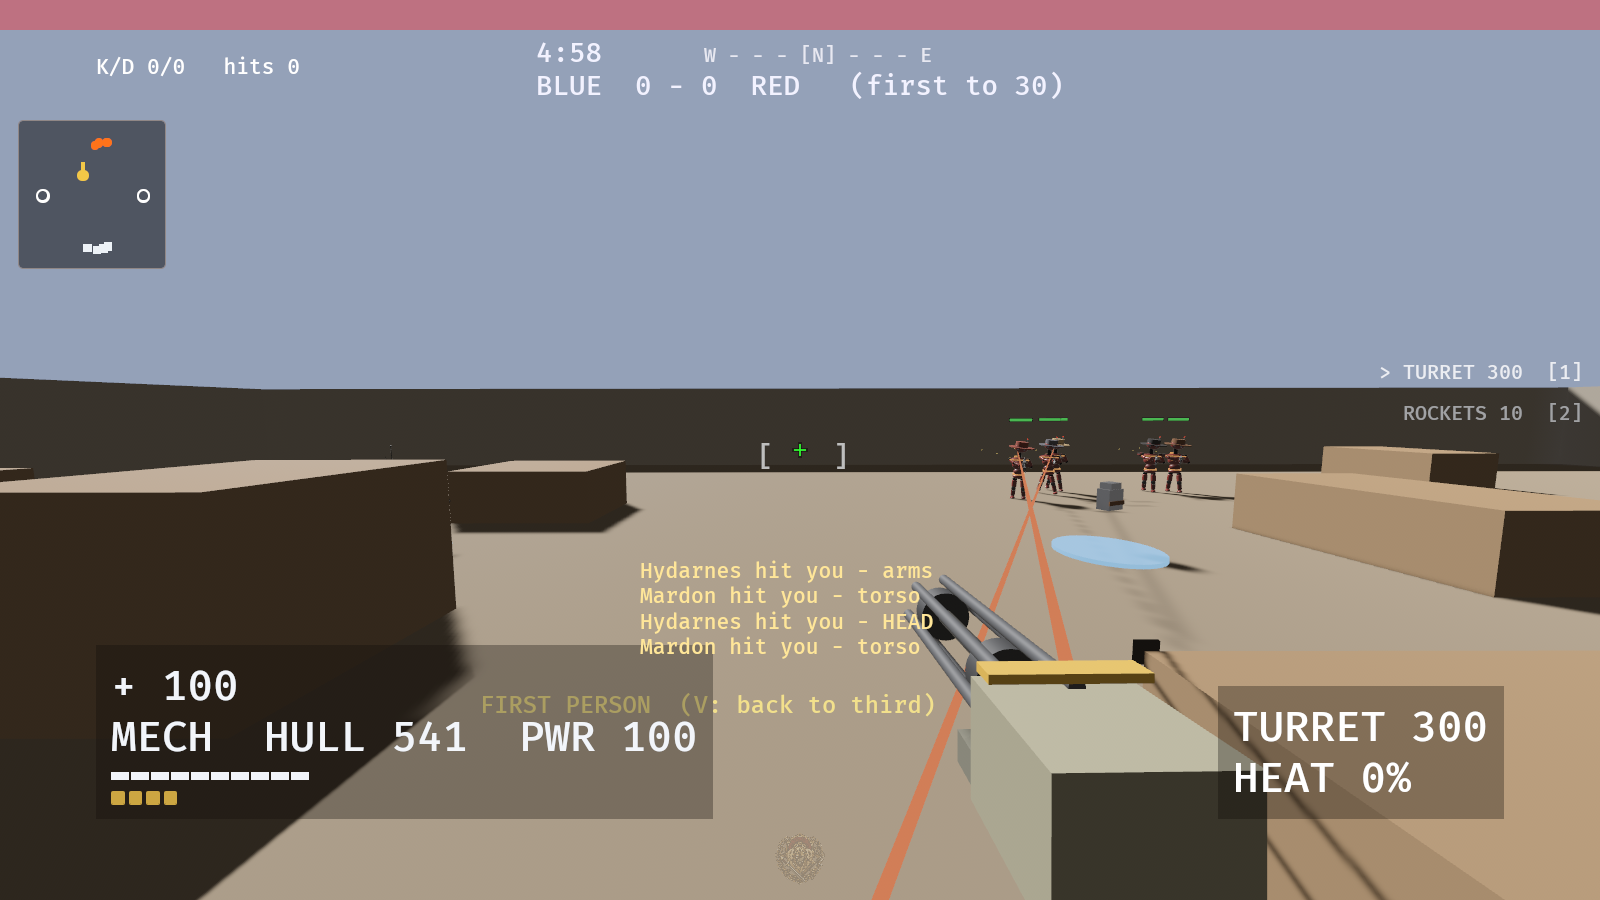
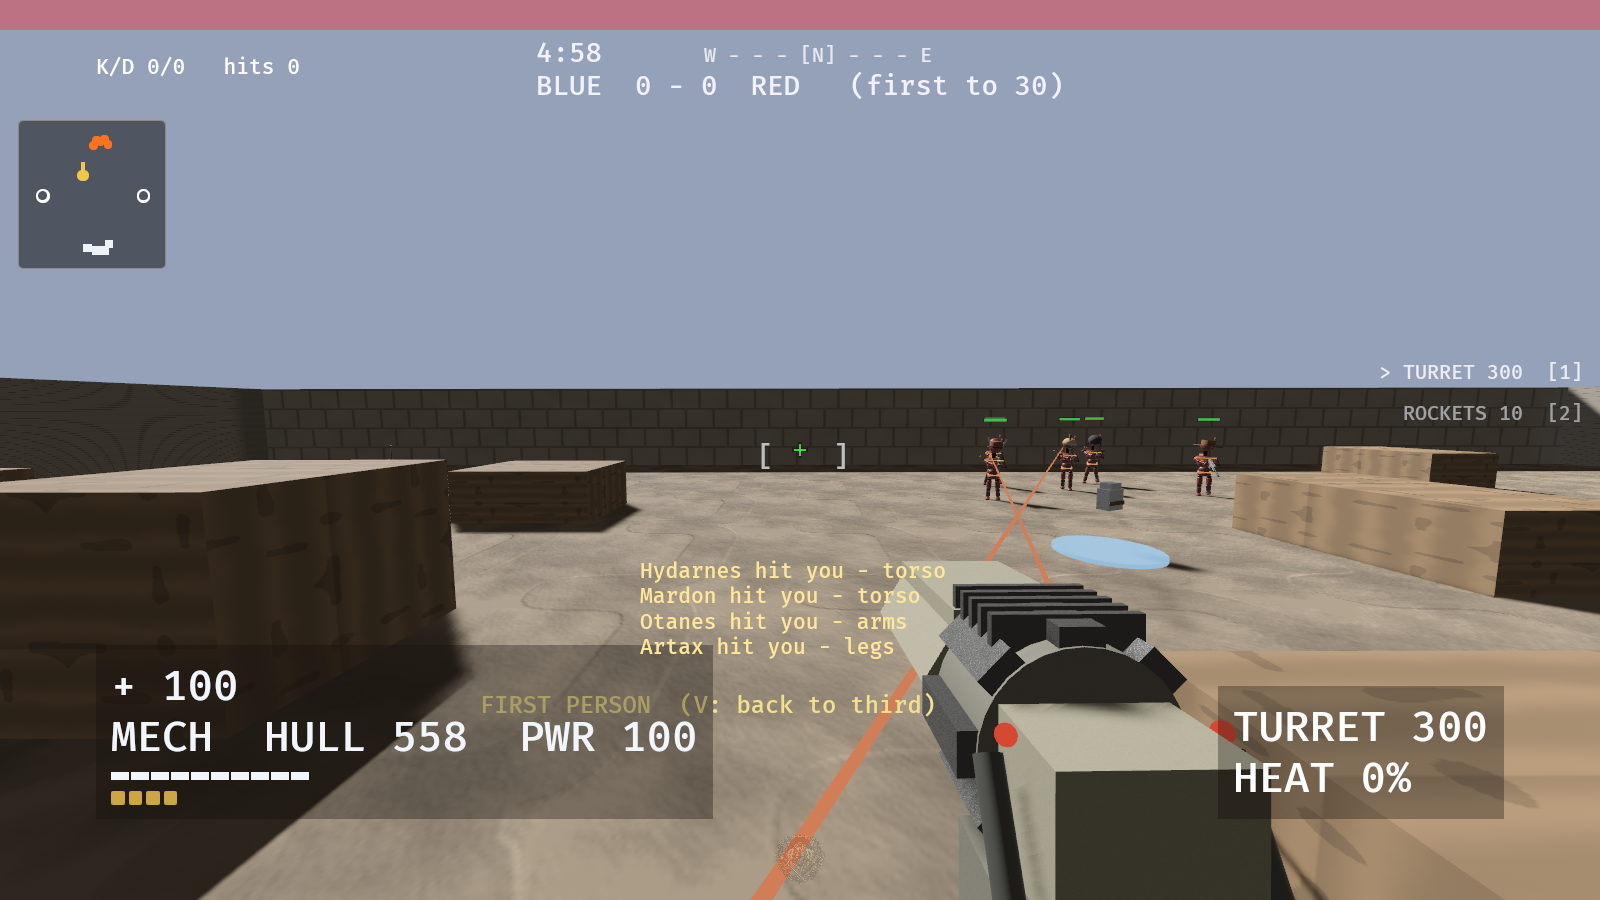
Make the mounts look like weapons a flagship would carry
Both hull mounts got the same argument the hull did: a weapon is not a
shape, it is a SYSTEM, and every part of it should be there because
another part needs it.

THE TURRET was a spine, two discs and six tubes - and the player looks
at it for the entire time they are in a chassis. A rotary cannon is
barrels, the clamps that hold them true, the drive that turns them, the
belt that feeds them, and the heat all of that makes.

Barrel clamps and muzzle collars ride the SPINNER, so they turn with
what they are clamping - six thickened mouths catching the light as the
cluster comes round. The drive housing is STATIC, with a ring of cooling
ribs and a lit power feed, and that difference is most of what makes a
gatling read correctly: the drive does not spin, the thing it drives
does. Above it a heat-sink stack with a glowing seam, which is where the
mount's existing heat number now lives on the gun itself. Below it a
belt box and gold feed links, matching the ammo-pickup vocabulary so a
player reads "rounds" without being told. Then cabling back into the
hull, two status lamps, and a partial cowl - open below, so the barrels
stay the thing you read.

THE LAUNCHER was a tube. A launcher is a tube plus everything that makes
firing one survivable: the casing that contains a misfire, the lock that
holds the round until told otherwise, the vent that puts the backblast
somewhere that is not the pilot, and the sensor that decided to fire.
[…]

diff --git a/engine/crates/jk_tdm/src/main.rs b/engine/crates/jk_tdm/src/main.rs
@@ -7171,6 +7171,169 @@ fn spawn_mech_turret_vm(commands: &mut Commands, kit: &ModelKit) -> Entity {
             ))
             .set_parent(root);
     }
+    // ---- §owner FLAGSHIP PASS: the turret ------------------------------
+    //
+    // This is the weapon the player looks at for the whole time they are
+    // in a chassis, and it was a spine, two discs and six tubes. A
+    // rotary cannon is a SYSTEM: barrels, the clamps that hold them true,
+    // the drive that turns them, the belt that feeds them, and the heat
+    // it all makes. Each of those is a group below, and each of them is
+    // the reason the next one exists.
+    {
+        // BARREL CLAMPS - two rings around the cluster, and the reason
+        // the barrels look like an assembly instead of six loose rods.
+        // On the SPINNER, so they turn with what they are clamping.
+        for (rz, r) in [(0.16_f32, 0.095_f32), (0.50, 0.088)] {
+            commands
+                .spawn((
+                    Mesh3d(kit.cyl.clone()),
+                    MeshMaterial3d(kit.mech_khaki_dk.clone()),
+                    Transform {
+                        translation: Vec3::new(0.0, 0.0, rz),
+                        rotation: Quat::from_rotation_x(FRAC_PI_2),
+                        scale: Vec3::new(r * 2.0, 0.045, r * 2.0),
+                    },
+                ))
+                .set_parent(spinner);
+        }
+        // muzzle collars, one per barrel - a bored gun has a THICKER
+        // mouth, and six of them catch the light as the cluster turns
+        for i in 0..6 {
+            let a = i as f32 * std::f32::consts::TAU / 6.0;
+            commands
+                .spawn((
+                    Mesh3d(kit.cyl.clone()),
+                    MeshMaterial3d(kit.mech_metal.clone()),
+                    Transform {
+                        translation: Vec3::new(a.cos() * 0.064, a.sin() * 0.064, 0.645),
+                        rotation: Quat::from_rotation_x(FRAC_PI_2),
+                        scale: Vec3::new(0.034, 0.035, 0.034),
+                    },
+                ))
+                .set_parent(spinner);
+        }
+        // DRIVE HOUSING - the motor that turns the cluster, static, with
+        // a cooling jacket and a lit power feed. Static on purpose: the
+        // drive does not spin, the thing it drives does, and that
+        // difference is most of what makes a gatling read correctly.
+        commands
+            .spawn((
+                Mesh3d(kit.cyl.clone()),
+                MeshMaterial3d(kit.mech_khaki_dk.clone()),
+                Transform {
+                    translation: Vec3::new(0.0, 0.0, 0.03),
+                    rotation: Quat::from_rotation_x(FRAC_PI_2),
+                    scale: Vec3::new(0.25, 0.20, 0.25),
+                },
+            ))
+            .set_parent(root);
+        for k in 0..8 {
+            let a = k as f32 * std::f32::consts::TAU / 8.0;
+            commands
+                .spawn((
+                    Mesh3d(kit.cube.clone()),
+                    MeshMaterial3d(kit.mech_metal.clone()),
+                    Transform {
+                        translation: Vec3::new(a.cos() * 0.132, a.sin() * 0.132, 0.03),
+                        rotation: Quat::from_rotation_z(a),
+                        scale: Vec3::new(0.030, 0.055, 0.19),
+                    },
+                ))
+                .set_parent(root);
+        }
+        // HEAT SINK stack over the drive - fins, and a glowing seam
+        // between them. The mount already HAS a heat model the HUD
+        // shows; this is where that number lives on the gun.
+        for k in 0..5 {
+            commands
+                .spawn((
+                    Mesh3d(kit.cube.clone()),
+                    MeshMaterial3d(kit.mech_metal.clone()),
+                    Transform::from_xyz(0.0, 0.115, -0.02 + k as f32 * 0.042)
+                        .with_scale(Vec3::new(0.19, 0.075, 0.016)),
+                ))
+                .set_parent(root);
+        }
+        commands
+            .spawn((
+                Mesh3d(kit.cube.clone()),
+                MeshMaterial3d(kit.med_glow.clone()),
+                Transform::from_xyz(0.0, 0.075, 0.065)
+                    .with_scale(Vec3::new(0.17, 0.012, 0.20)),
+            ))
+            .set_parent(root);
+        // AMMUNITION - a belt box under the breech and the links running
+        // up into it. Gold, matching the ammo-pickup vocabulary, so a
+        // player reads "rounds" without being told.
+        commands
+            .spawn((
+                Mesh3d(kit.cube.clone()),
+                MeshMaterial3d(kit.mech_khaki_dk.clone()),
+                Transform::from_xyz(0.0, -0.20, -0.16)
+                    .with_scale(Vec3::new(0.26, 0.20, 0.30)),
+            ))
+            .set_parent(root);
+        for (lx, ly, lz) in [
+            (0.0_f32, -0.115_f32, -0.11_f32),
+            (0.0, -0.075, -0.055),
+            (0.0, -0.055, 0.00),
+        ] {
+            commands
+                .spawn((
+                    Mesh3d(kit.cube.clone()),
+                    MeshMaterial3d(kit.gold.clone()),
+                    Transform::from_xyz(lx, ly, lz)
+                        .with_scale(Vec3::new(0.10, 0.045, 0.075)),
+                ))
+                .set_parent(root);
+        }
+        // CABLING from the drive back into the hull, and the two small
+        // status lamps a crewed weapon always has
+        for sd in [-1.0_f32, 1.0] {
+            commands
+                .spawn((
+                    Mesh3d(kit.cyl.clone()),
+                    MeshMaterial3d(kit.mech_shadow.clone()),
+                    Transform {
+                        translation: Vec3::new(sd * 0.13, -0.09, -0.20),
+                        rotation: Quat::from_rotation_x(0.55),
+                        scale: Vec3::new(0.032, 0.28, 0.032),
+                    },
+                ))
+                .set_parent(root);
+            commands
+                .spawn((
+                    Mesh3d(kit.ball.clone()),
+                    MeshMaterial3d(kit.core_glow.clone()),
+                    Transform::from_xyz(sd * 0.115, 0.055, -0.14)
+                        .with_scale(Vec3::splat(0.024)),
+                ))
+                .set_parent(root);
+        }
+        // reinforced barrel shroud - a partial cowl over the top of the
+        // cluster, open below so the barrels stay readable
+        commands
+            .spawn((
+                Mesh3d(kit.cube.clone()),
+                MeshMaterial3d(kit.mech_khaki.clone()),
+                Transform::from_xyz(0.0, 0.105, 0.34)
+                    .with_scale(Vec3::new(0.20, 0.030, 0.42)),
+            ))
+            .set_parent(root);
+        for sd in [-1.0_f32, 1.0] {
+            commands
+                .spawn((
+                    Mesh3d(kit.cube.clone()),
+                    MeshMaterial3d(kit.mech_khaki.clone()),
+                    Transform {
+                        translation: Vec3::new(sd * 0.105, 0.055, 0.34),
+                        rotation: Quat::from_rotation_z(sd * 0.55),
+                        scale: Vec3::new(0.028, 0.11, 0.42),
+                    },
+                ))
+                .set_parent(root);
+        }
+    }
     root
 }
 
@@ -7237,6 +7400,159 @@ fn spawn_mech_pod_vm(commands: &mut Commands, kit: &ModelKit) -> Entity {
                     translation: Vec3::new(x, -0.13, 0.30),
                     rotation: Quat::from_rotation_x(FRAC_PI_2),
                     scale: Vec3::new(0.05, 0.10, 0.05),
+                },
+            ))
+            .set_parent(root);
+    }
+    // ---- §owner FLAGSHIP PASS: the launcher -----------------------------
+    //
+    // A launcher is a tube plus everything that makes firing one safe:
+    // the casing that contains a misfire, the lock that holds the round
+    // until it is told not to, the vent that puts the backblast
+    // somewhere, and the sensor that decided to fire in the first place.
+    // The tube had none of them.
+    {
+        // ARMOUR CASING - a half-shell over the tube, ribbed, open below
+        // so the tube stays the thing you read
+        commands
+            .spawn((
+                Mesh3d(kit.cube.clone()),
+                MeshMaterial3d(kit.mech_khaki.clone()),
+                Transform::from_xyz(0.0, 0.115, 0.42)
+                    .with_scale(Vec3::new(0.20, 0.045, 0.78)),
+            ))
+            .set_parent(root);
+        for k in 0..5 {
+            commands
+                .spawn((
+                    Mesh3d(kit.cube.clone()),
+                    MeshMaterial3d(kit.mech_khaki_dk.clone()),
+                    Transform::from_xyz(0.0, 0.115, 0.13 + k as f32 * 0.145)
+                        .with_scale(Vec3::new(0.215, 0.055, 0.030)),
+                ))
+                .set_parent(root);
+        }
+        for sd in [-1.0_f32, 1.0] {
+            commands
+                .spawn((
+                    Mesh3d(kit.cube.clone()),
+                    MeshMaterial3d(kit.mech_khaki.clone()),
+                    Transform {
+                        translation: Vec3::new(sd * 0.115, 0.055, 0.42),
+                        rotation: Quat::from_rotation_z(sd * 0.60),
+                        scale: Vec3::new(0.030, 0.10, 0.78),
+                    },
+                ))
+                .set_parent(root);
+        }
+        // LOCKING MECHANISM at the mouth - two jaws and their actuator.
+        // This is the part that says the round is HELD rather than
+        // resting in a pipe.
+        for sd in [-1.0_f32, 1.0] {
+            commands
+                .spawn((
+                    Mesh3d(kit.cube.clone()),
+                    MeshMaterial3d(kit.mech_metal.clone()),
+                    Transform {
+                        translation: Vec3::new(sd * 0.155, 0.0, 0.815),
+                        rotation: Quat::from_rotation_z(sd * -0.25),
+                        scale: Vec3::new(0.045, 0.13, 0.075),
+                    },
+                ))
+                .set_parent(root);
+            commands
+                .spawn((
+                    Mesh3d(kit.cyl.clone()),
+                    MeshMaterial3d(kit.mech_shadow.clone()),
+                    Transform {
+                        translation: Vec3::new(sd * 0.145, 0.0, 0.735),
+                        rotation: Quat::from_rotation_z(FRAC_PI_2),
+                        scale: Vec3::new(0.040, 0.055, 0.040),
+                    },
+                ))
+                .set_parent(root);
+        }
+        // EXHAUST / BACKBLAST vents at the rear, angled out and down so
+        // the blast is visibly going somewhere that is not the pilot
+        for sd in [-1.0_f32, 1.0] {
+            commands
+                .spawn((
+                    Mesh3d(kit.cyl.clone()),
+                    MeshMaterial3d(kit.mech_khaki_dk.clone()),
+                    Transform {
+                        translation: Vec3::new(sd * 0.115, -0.035, -0.06),
+                        rotation: Quat::from_rotation_z(sd * -0.55),
+                        scale: Vec3::new(0.085, 0.16, 0.085),
+                    },
+                ))
+                .set_parent(root);
+            commands
+                .spawn((
+                    Mesh3d(kit.cyl.clone()),
+                    MeshMaterial3d(kit.grey_black.clone()),
+                    Transform {
+                        translation: Vec3::new(sd * 0.155, -0.105, -0.06),
+                        rotation: Quat::from_rotation_z(sd * -0.55),
+                        scale: Vec3::new(0.065, 0.03, 0.065),
+                    },
+                ))
+                .set_parent(root);
+        }
+        // RELOAD components - the feed arm that lifts a round from the
+        // magazine into the breech, caught mid-travel
+        commands
+            .spawn((
+                Mesh3d(kit.cube.clone()),
+                MeshMaterial3d(kit.mech_metal.clone()),
+                Transform {
+                    translation: Vec3::new(0.0, -0.075, 0.22),
+                    rotation: Quat::from_rotation_x(-0.45),
+                    scale: Vec3::new(0.075, 0.14, 0.045),
+                },
+            ))
+            .set_parent(root);
+        commands
+            .spawn((
+                Mesh3d(kit.cyl.clone()),
+                MeshMaterial3d(kit.mech_shadow.clone()),
+                Transform {
+                    translation: Vec3::new(0.0, -0.135, 0.10),
+                    rotation: Quat::from_rotation_z(FRAC_PI_2),
+                    scale: Vec3::new(0.055, 0.18, 0.055),
+                },
+            ))
+            .set_parent(root);
+        // TARGETING SENSOR over the muzzle - a boxed seeker head with a
+        // lit aperture. The pod already LOCKS (`pod_lock_t`); this is
+        // where that lives on the model.
+        commands
+            .spawn((
+                Mesh3d(kit.cube.clone()),
+                MeshMaterial3d(kit.mech_khaki_dk.clone()),
+                Transform::from_xyz(0.0, 0.175, 0.70)
+                    .with_scale(Vec3::new(0.13, 0.085, 0.17)),
+            ))
+            .set_parent(root);
+        commands
+            .spawn((
+                Mesh3d(kit.cyl.clone()),
+                MeshMaterial3d(kit.core_glow.clone()),
+                Transform {
+                    translation: Vec3::new(0.0, 0.175, 0.79),
+                    rotation: Quat::from_rotation_x(FRAC_PI_2),
+                    scale: Vec3::new(0.055, 0.014, 0.055),
+                },
+            ))
+            .set_parent(root);
+        // and the cable run from the seeker back into the mount
+        commands
+            .spawn((
+                Mesh3d(kit.cyl.clone()),
+                MeshMaterial3d(kit.mech_shadow.clone()),
+                Transform {
+                    translation: Vec3::new(0.075, 0.15, 0.40),
+                    rotation: Quat::from_rotation_x(FRAC_PI_2),
+                    scale: Vec3::new(0.026, 0.60, 0.026),
                 },
             ))
             .set_parent(root);
